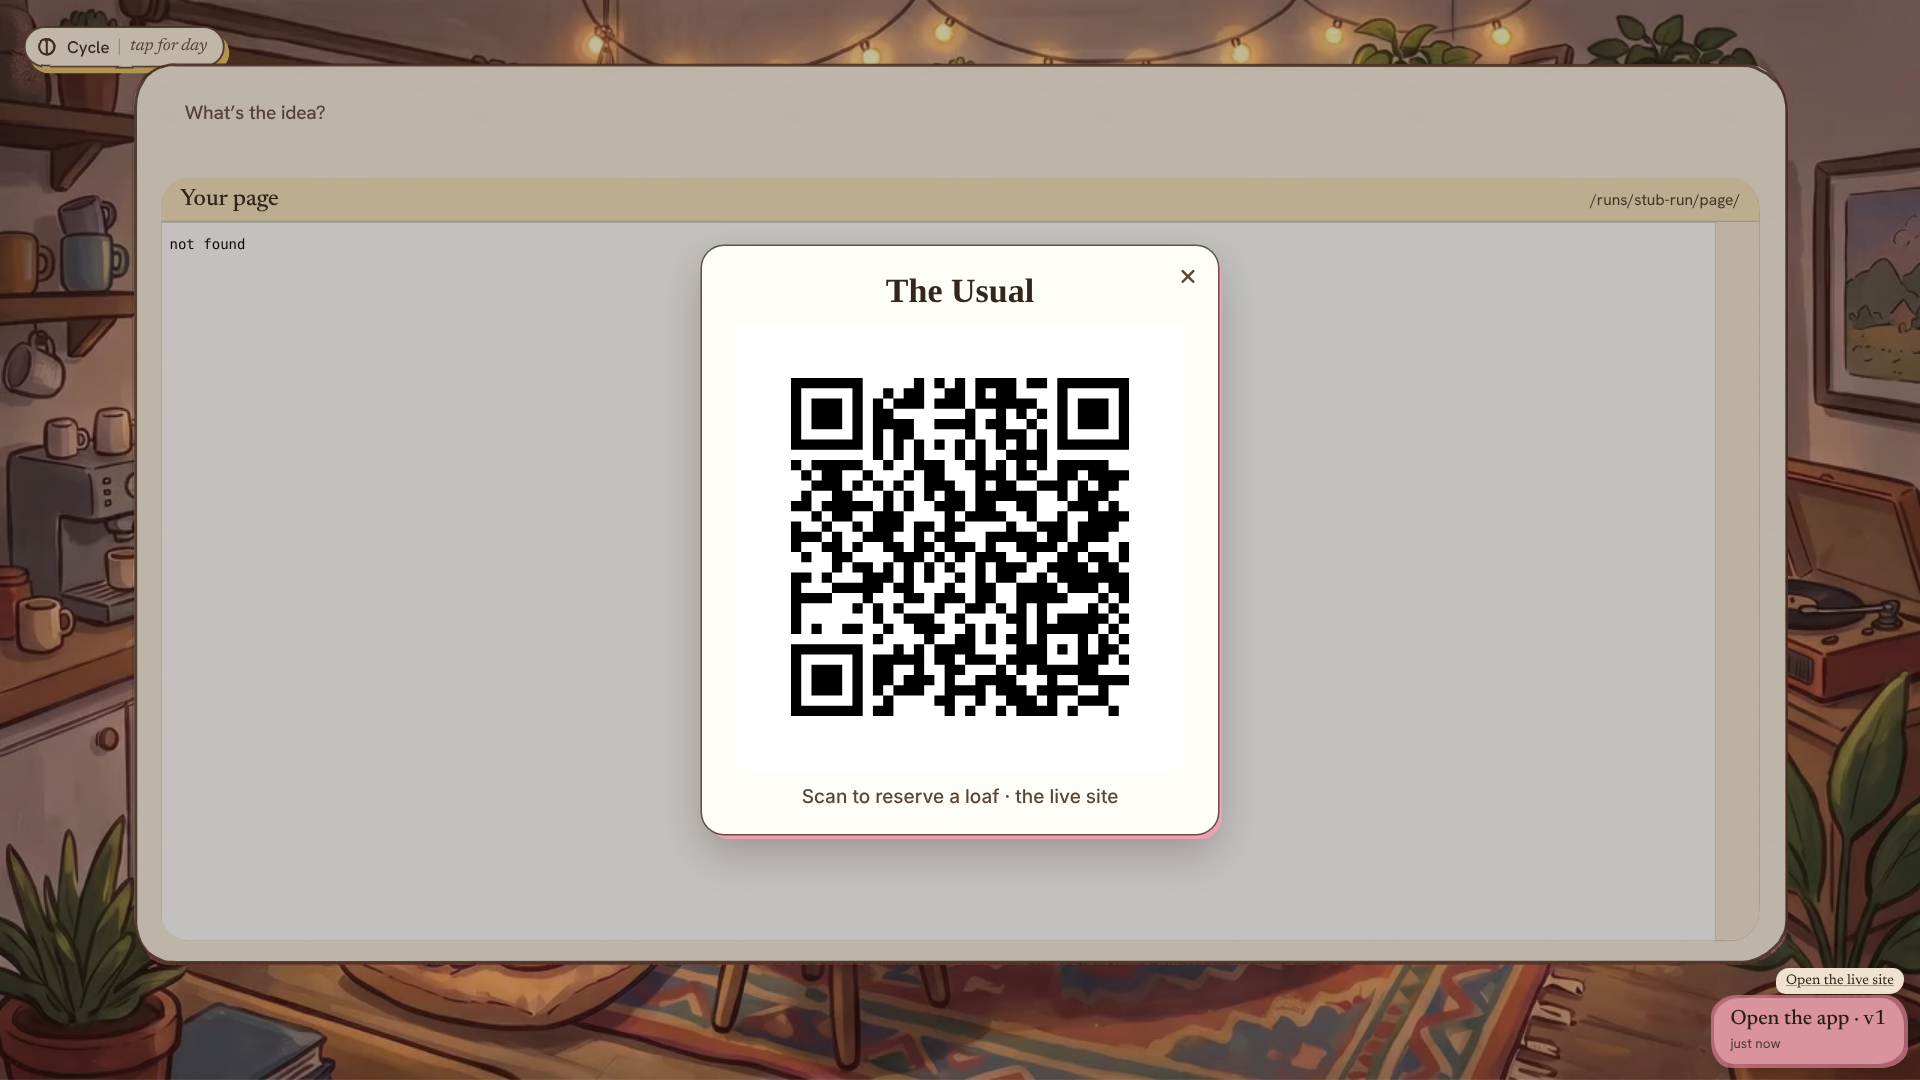
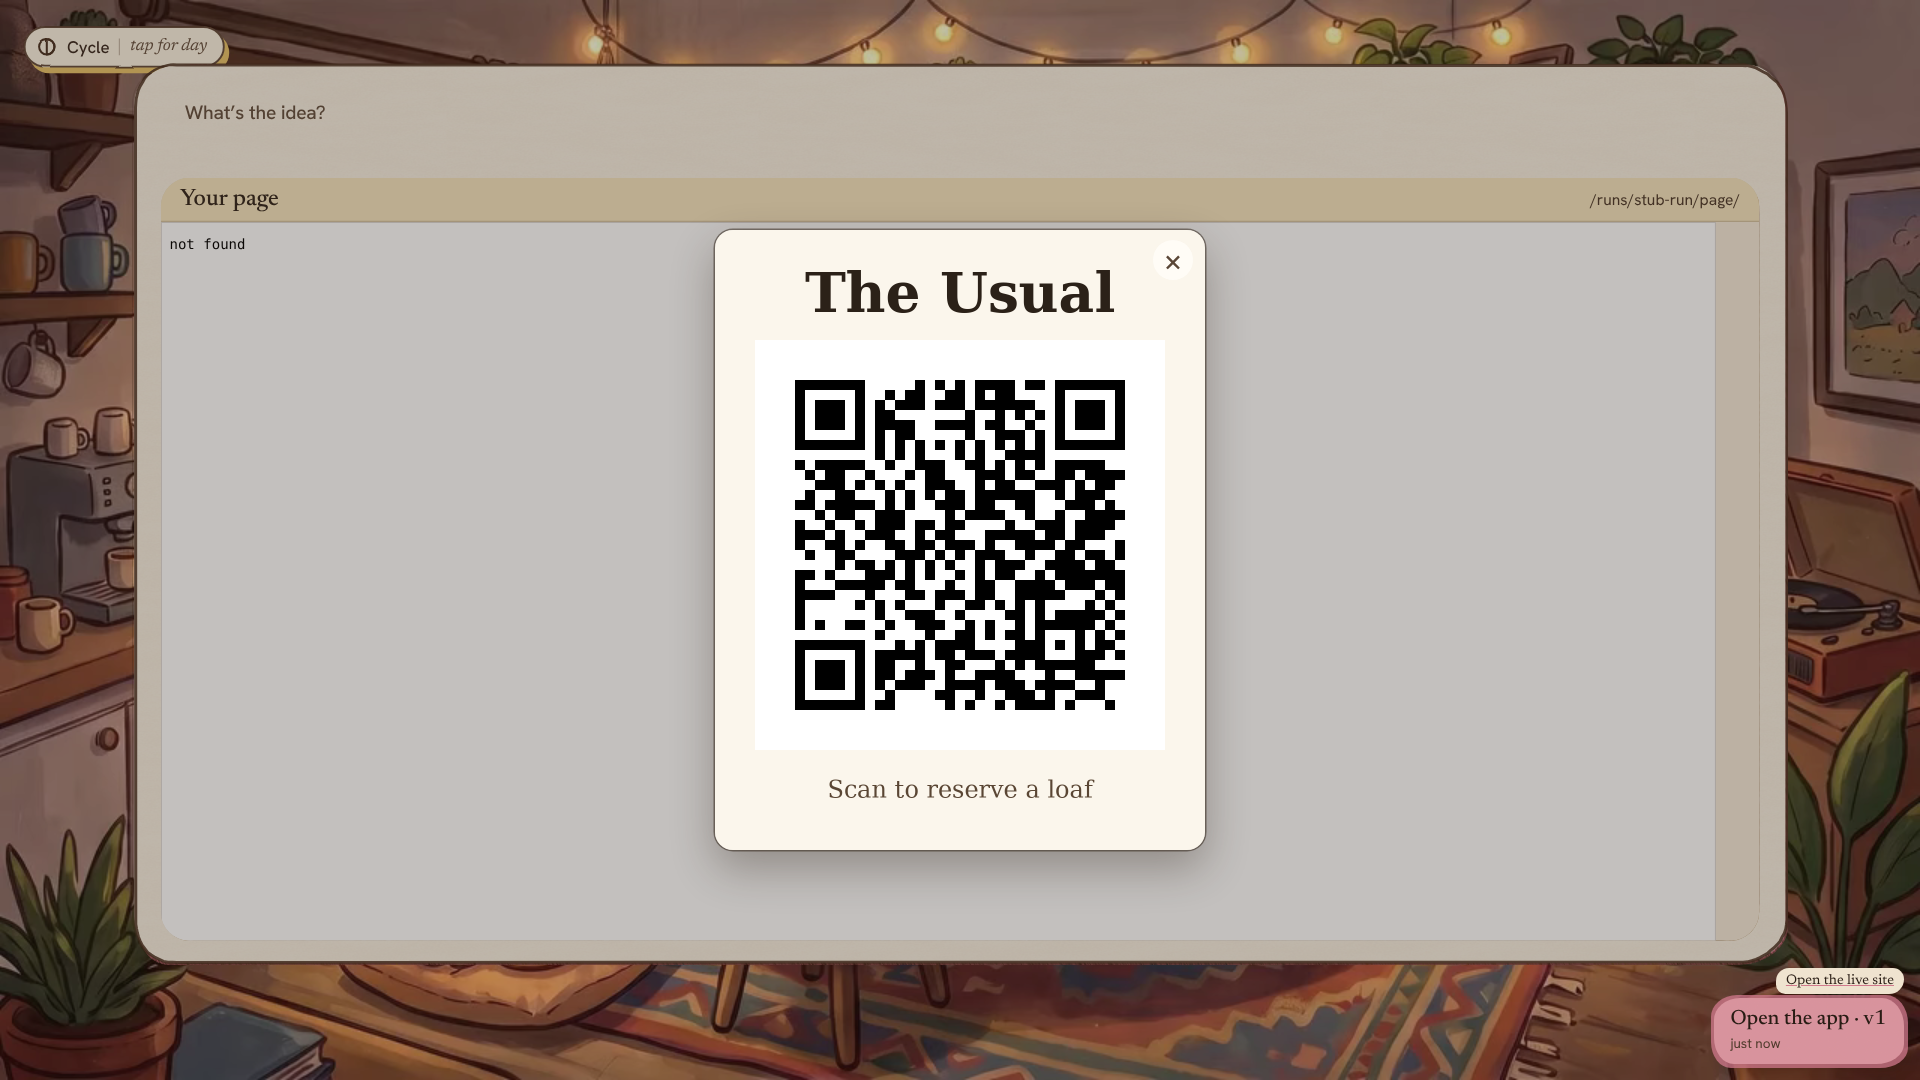
The QR card: Open the app also shows the card Vincent picked in the room tab
Only when /api/health deployUrl is the Railway site the QR encodes. Centred,
under the app button, closed by x, Esc or a click outside; both looks; static
under reduced motion. e2e/qr-card.e2e.js (painted and plain, card absent
without the deploy, 1920 still), npm test 311/0. REHEARSAL: the DEPLOY_URL line.

Claude-Session: https://claude.ai/code/session_013ka3w6WgnwagUwgtJYzTr8

Changed region(s): [[0.4062, 0.3361, 0.5938, 0.6722], [0.3438, 0.2139, 0.6562, 0.7639], [0.375, 0.7028, 0.625, 0.7944]]

diff --git a/public/room.css b/public/room.css
@@ -620,12 +620,10 @@ html:not(.painted-on) body #room #inbox [data-component="inbox-action"] :is([dat
    live bakery. Centred, under the app button (z 45), closed by ×, Esc or a click outside. Both looks. */
 .qr-card-wrap { position: fixed; inset: 0; z-index: 44; display: grid; place-items: center; background: rgba(40,28,20,.28); }
 .qr-card-wrap[hidden] { display: none; }
-.qr-card { position: relative; display: flex; flex-direction: column; align-items: center; gap: 14px; padding: 26px 34px 24px;
-  background: #FFFDF8; border-radius: 22px; box-shadow: 0 0 0 1.5px rgba(51,38,28,.7), 5px 6px 0 -1px #E9A3B1, 0 18px 40px rgba(40,28,20,.25); }
-.qr-title { margin: 0; font: 600 34px/1.1 Fraunces, Georgia, serif; color: #33261C; }
-.qr-img { display: block; width: min(420px, 50vh); height: min(420px, 50vh); min-height: 360px; min-width: 360px; background: #fff; padding: 14px; border-radius: 10px; box-sizing: content-box; }
-.qr-line { margin: 0; font: 500 19px/1.3 system-ui, sans-serif; color: #5A4636; }
-.qr-close { position: absolute; top: 8px; right: 10px; width: 40px; height: 40px; border: 0; background: none; font: 400 30px/1 system-ui, sans-serif; color: #5A4636; cursor: pointer; border-radius: 50%; }
+.qr-card { position: relative; line-height: 0; border-radius: 18px; box-shadow: 0 0 0 1.5px rgba(51,38,28,.55), 0 18px 44px rgba(40,28,20,.32); }
+/* the card Vincent picked, as it is: ~520px tall on the 1600x900 stage, ~620px at 1920x1080 */
+.qr-img { display: block; height: min(58vh, 620px); width: auto; border-radius: 18px; }
+.qr-close { position: absolute; top: 10px; right: 12px; background: rgba(255,253,248,.85) !important; width: 40px; height: 40px; border: 0; background: none; font: 400 30px/1 system-ui, sans-serif; color: #5A4636; cursor: pointer; border-radius: 50%; }
 .qr-close:hover { background: rgba(51,38,28,.08); }
 @media (prefers-reduced-motion: no-preference) { .qr-card-wrap[data-state="open"] .qr-card { animation: qr-in .35s cubic-bezier(.2,.9,.3,1.2) both; } }
 @keyframes qr-in { from { opacity: 0; transform: translateY(12px) scale(.96); } }

diff --git a/e2e/qr-card.e2e.js b/e2e/qr-card.e2e.js
@@ -44,10 +44,10 @@ for (const look of ['painted', 'plain']) {
     const card = p.locator('[data-component="qr-card"]');
     await card.waitFor({ state: 'visible', timeout: 2000 });
     assert.strictEqual(await card.getAttribute('data-state'), 'open');
-    assert.match(await card.textContent(), /The Usual[\s\S]*Scan to reserve a loaf · the live site/);
+    assert.match(await p.getAttribute('[data-component="qr-card"] img', 'src'), /qr-live-site-card\.png$/, 'the card Vincent picked, as it is');
     await p.waitForFunction(() => { const i = document.querySelector('[data-component="qr-card"] img'); return i && i.complete && i.naturalWidth > 0; }, null, { timeout: 3000 });
     const img = await p.locator('[data-component="qr-card"] img').boundingBox();
-    assert.ok(img.height >= 360, `the QR is at least 360px tall (${img.height})`);
+    assert.ok(img.height >= 480, `the card is large: at least 480px tall on the 1600x900 stage (${img.height})`);
     // never covers the app button, which stays clickable above it
     const btn = await p.locator('#app-button .app-open').boundingBox(), c = await card.boundingBox();
     const overlap = !(btn.x > c.x + c.width || btn.x + btn.width < c.x || btn.y > c.y + c.height || btn.y + btn.height < c.y);
@@ -78,6 +78,7 @@ test('the still: 1920x1080, painted, the card open', { skip: !process.env.QR_SHO
   const { p } = await room('painted', LIVE, { width: 1920, height: 1080 });
   await p.click('#app-button .app-open');
   await p.waitForFunction(() => { const i = document.querySelector('[data-component="qr-card"] img'); return i && i.naturalWidth > 0; });
+  const h = (await p.locator('[data-component="qr-card"] img').boundingBox()).height; assert.ok(h >= 560, `at least 560px tall at 1920x1080 (${h})`);
   await p.waitForTimeout(500);
   await p.screenshot({ path: process.env.QR_SHOT });
   await p.close();

diff --git a/public/app-button.js b/public/app-button.js
@@ -82,9 +82,7 @@
       qr.className = 'qr-card-wrap'; qr.dataset.slot = 'qr-backdrop';
       qr.innerHTML = '<div class="qr-card" data-component="qr-card" role="dialog" aria-label="Scan for the live site">'
         + '<button type="button" class="qr-close" data-slot="close" aria-label="Close">×</button>'
-        + '<p class="qr-title" data-slot="title">The Usual</p>'
-        + '<img class="qr-img" data-slot="qr" src="qr-live-site.svg" alt="QR code for the live site" width="420" height="420">'
-        + '<p class="qr-line" data-slot="caption">Scan to reserve a loaf · the live site</p></div>';
+        + '<img class="qr-img" data-slot="qr" src="qr-live-site-card.png" alt="The Usual: scan to reserve a loaf on the live site" width="980" height="1240"></div>';
       qr.addEventListener('click', e => { if (e.target === qr || e.target.closest('.qr-close')) hideQr(); });
       document.addEventListener('keydown', e => { if (e.key === 'Escape' && qr && !qr.hidden) hideQr(); });
       (root.parentElement || document.body).appendChild(qr); // beside the app button, so it stays above the card

diff --git a/docs/REHEARSAL.md b/docs/REHEARSAL.md
@@ -107,3 +107,6 @@ Live research: with `LINKUP_API_KEY` set next to `FAL_KEY`, Noor's Focus 1 findi
   UTC on 15 Nov, `e2e/yoga.e2e.js:186` ("a decision cites her new line") failed. At Build, no re-decision cited her newest
   takeaway (L4); every cite was L2, L3 or the team default. It's model judgement, not a crash. On claude-code the same
   spec passes. With the PO's Focus 2 line, Build's decide on fal cited her newest line 8, 12 and 7 times out of 24 candidates.
+
+## The QR card (live bakery)
+Start the room with `DEPLOY_URL=https://bring-your-own-craft-production.up.railway.app`. Then pressing "Open the app" also shows the QR card in the room tab, which the audience scans to reach the live site. Close it with ×, Esc or a click outside. Without that exact DEPLOY_URL there is no card; the app still opens in a new tab.
